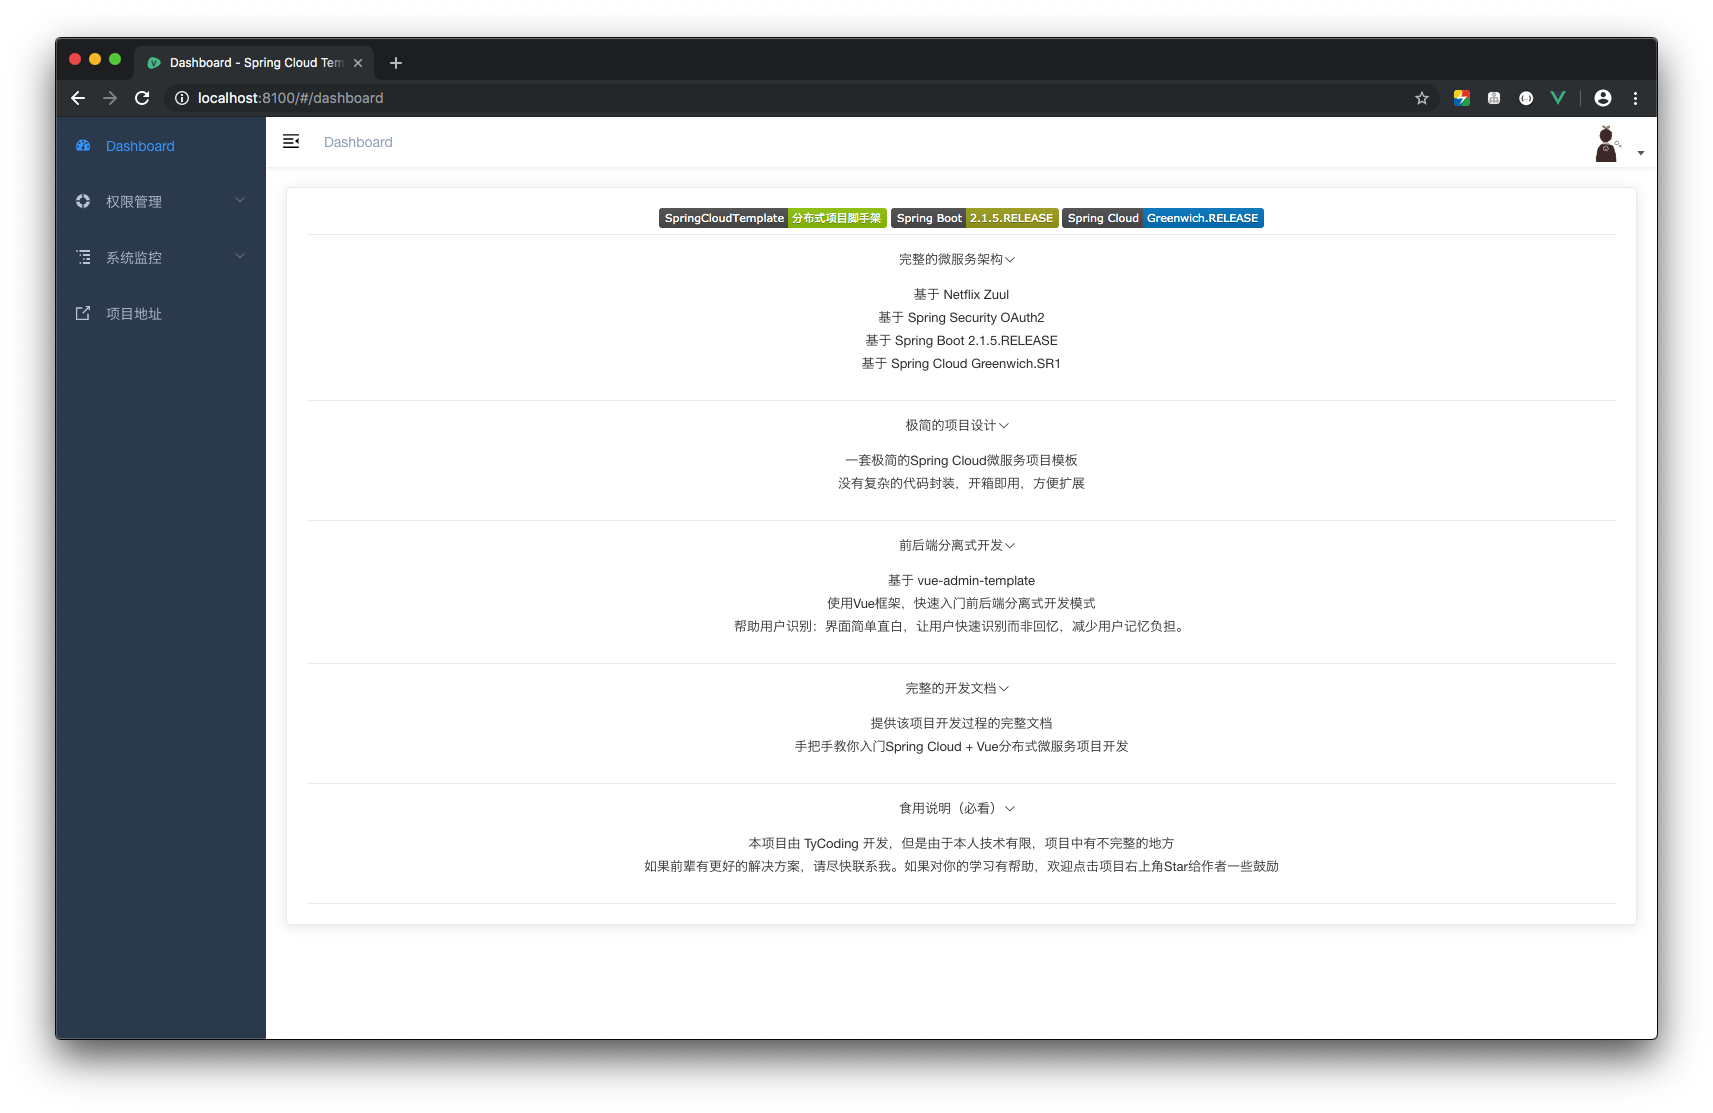
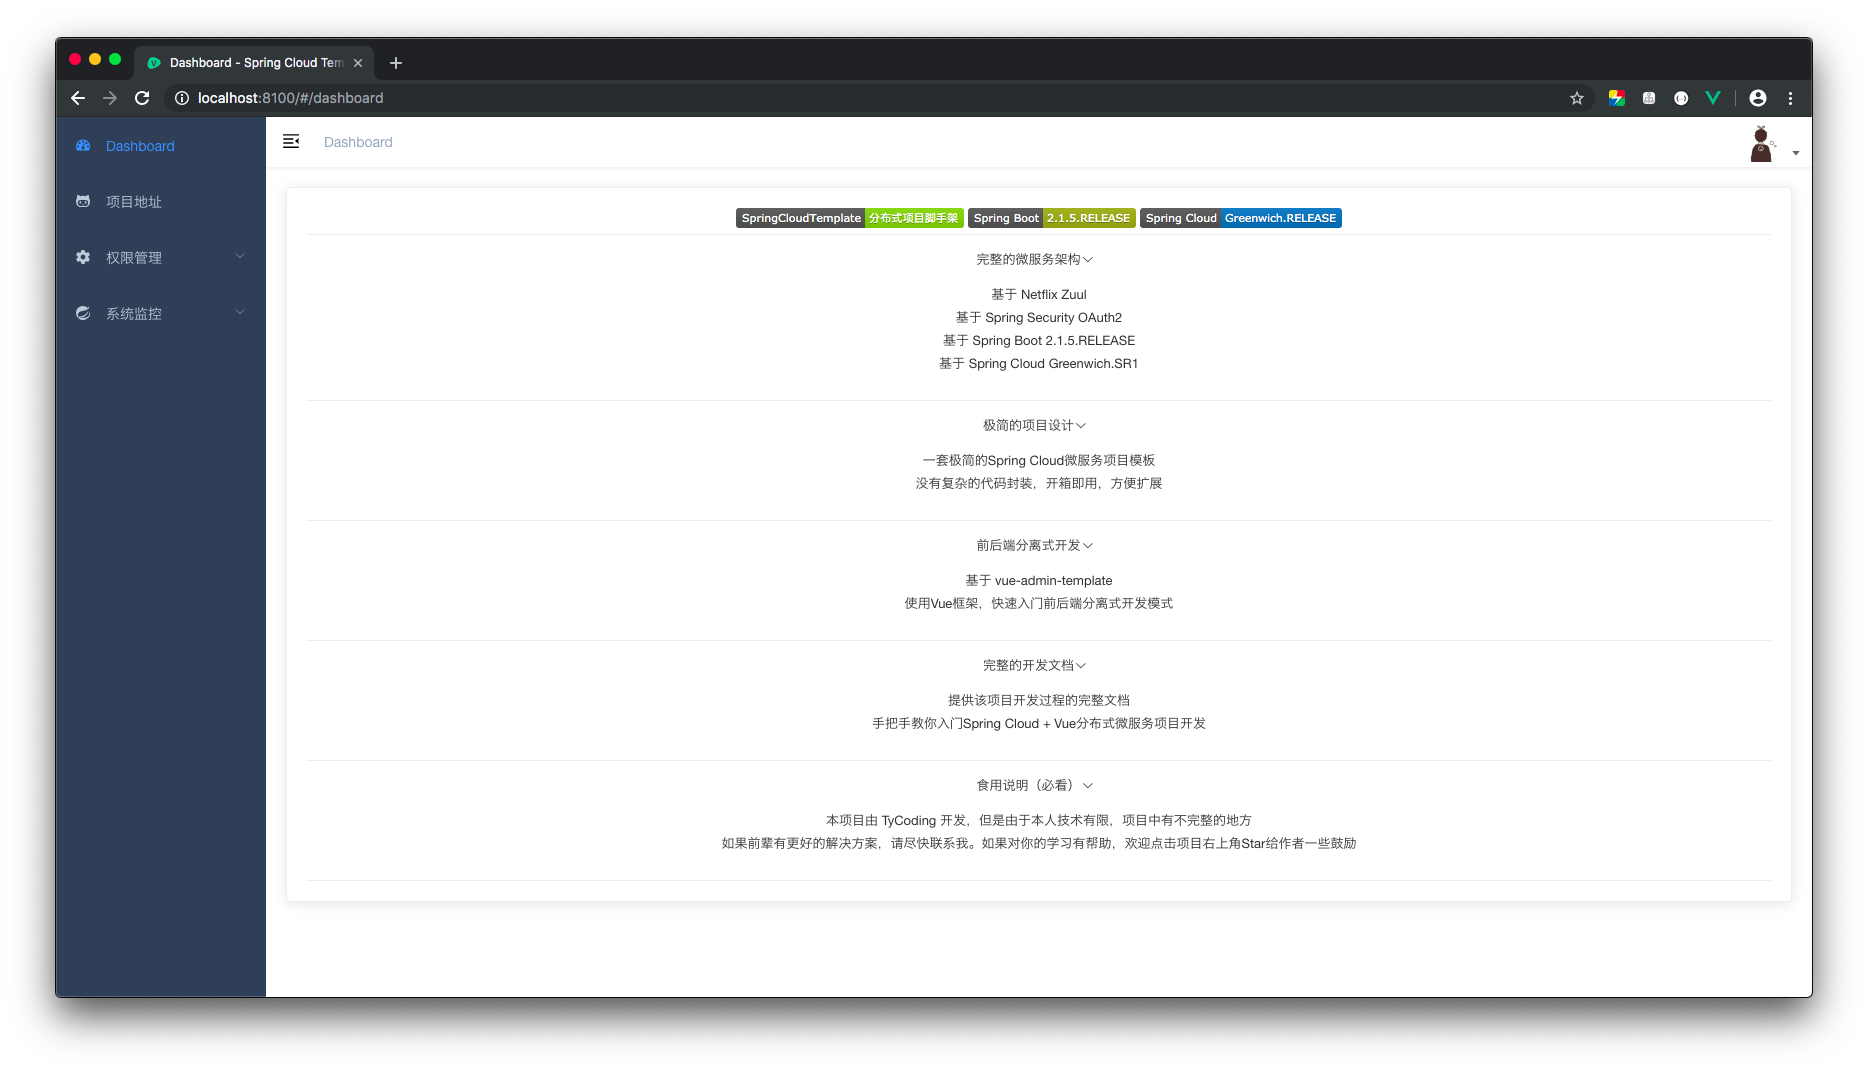
:bookmark: 修复图片上传问题

diff --git a/sct-app/src/router/index.js b/sct-app/src/router/index.js
@@ -56,23 +56,34 @@ export const constantRoutes = [
   },
 
   {
+    path: '项目地址',
+    component: Layout,
+    children: [
+      {
+        path: 'https://github.com/TyCoding/cloud-template/',
+        meta: { title: '项目地址', icon: 'github' }
+      }
+    ]
+  },
+
+  {
     path: '/admin',
     component: Layout,
     redirect: '/admin/user',
     name: '权限管理',
-    meta: { title: '权限管理', icon: 'example' },
+    meta: { title: '权限管理', icon: 'setting' },
     children: [
       {
         path: 'doc',
         name: '接口文档',
         component: () => import('@/views/doc/swagger'),
-        meta: { title: '接口文档', icon: 'table' }
+        meta: { title: '接口文档', icon: 'documentation' }
       },
       {
         path: 'user',
         name: '用户管理',
         component: () => import('@/views/user/index'),
-        meta: { title: '用户管理', icon: 'table' }
+        meta: { title: '用户管理', icon: 'peoples' }
       },
     ]
   },
@@ -82,37 +93,26 @@ export const constantRoutes = [
     component: Layout,
     redirect: '/monitor/admin',
     name: '系统监控',
-    meta: { title: '系统监控', icon: 'nested' },
+    meta: { title: '系统监控', icon: 'springcloud' },
     children: [
       {
         path: 'admin',
         name: '服务监控',
         component: () => import('@/views/monitor/admin'),
-        meta: { title: '服务监控', icon: 'table' }
+        meta: { title: '服务监控', icon: 'service-monitor' }
       },
       {
         path: 'zipkin',
         name: '链路监控',
         component: () => import('@/views/monitor/zipkin'),
-        meta: { title: '链路监控', icon: 'table' }
+        meta: { title: '链路监控', icon: 'zipkin' }
       },
       {
         path: 'eureka',
         name: '注册中心',
         component: () => import('@/views/monitor/eureka'),
-        meta: { title: '注册中心', icon: 'table' }
+        meta: { title: '注册中心', icon: 'service-center' }
       },
-    ]
-  },
-
-  {
-    path: '项目地址',
-    component: Layout,
-    children: [
-      {
-        path: 'https://github.com/TyCoding/cloud-template/',
-        meta: { title: '项目地址', icon: 'link' }
-      }
     ]
   },
 

diff --git a/sct-app/src/views/user/save.vue b/sct-app/src/views/user/save.vue
@@ -76,6 +76,7 @@
     watch: {
       'sonData': function (newVal, oldVal) {
         this.form = newVal
+        this.imgURL = this.form.avatar
         this.dialogVisible = true
         if (newVal.id != null) {
           this.dialogTitle = 'Edit'
